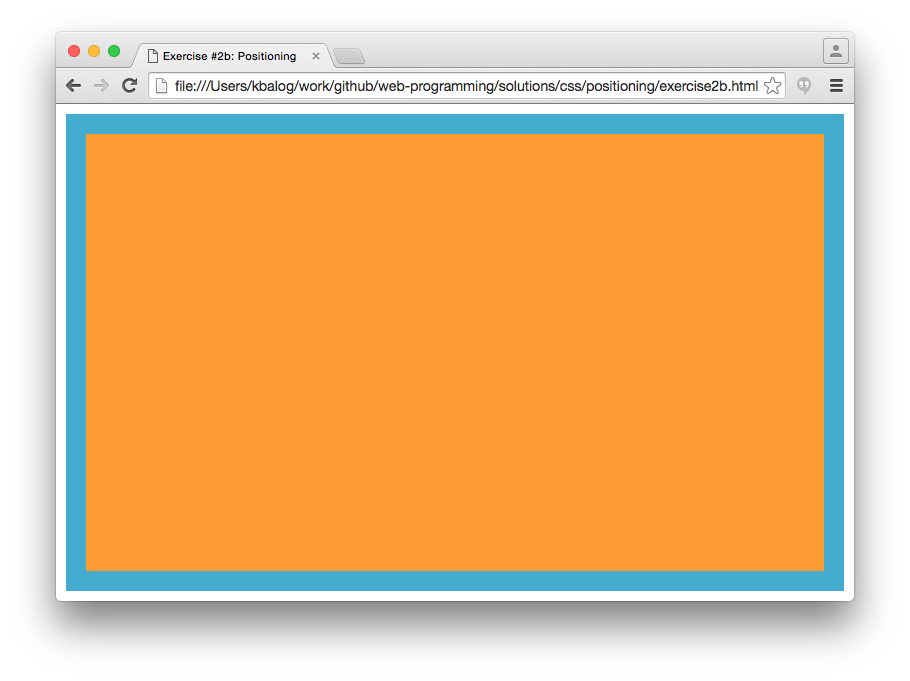
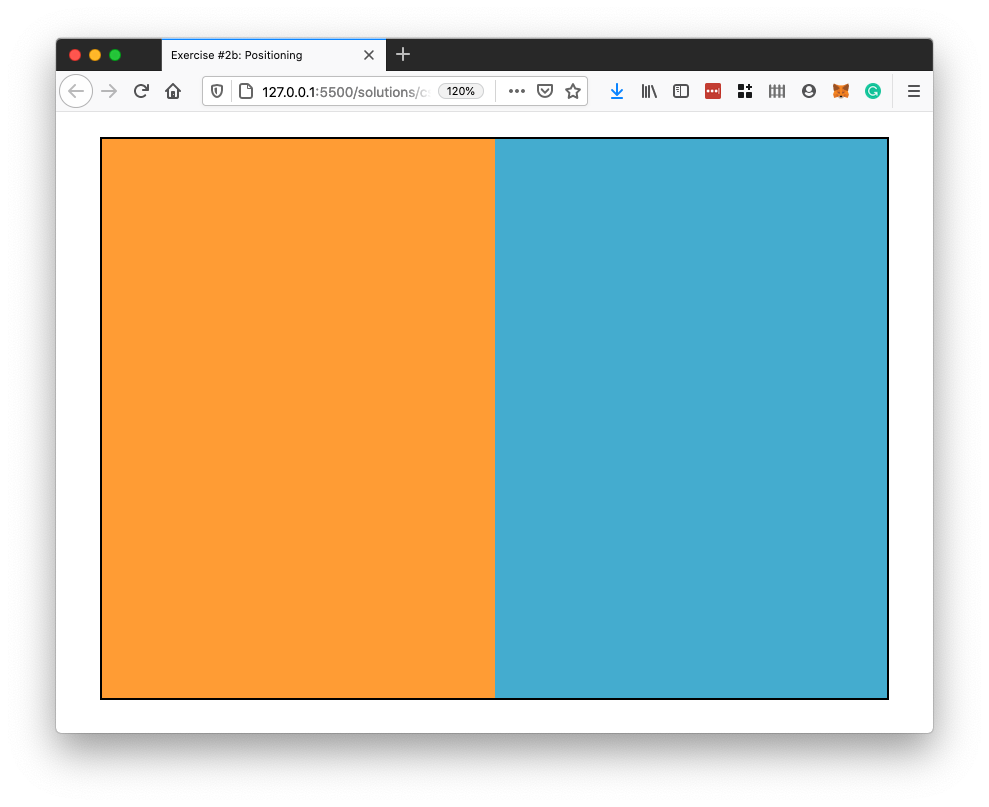
change absolute positioning.

diff --git a/solutions/css/positioning/exercise2b.html b/solutions/css/positioning/exercise2b.html
@@ -3,28 +3,45 @@
 <head>
     <title>Exercise #2b: Positioning</title>
     <style>
-        #outer {
+        /* This rule below ensures the body covers the complete displayed area */
+        * {
+            margin: 0;
+        }
+        html {
+            height: 100%;
+        }
+        body {
+            height: 90%;
+            padding: 5%;
+        }
+        #container {
+            height: 100%;
+            border: 2px solid black;
+            position: relative;
+        }
+        #left {
             background: #44accf;
             position: absolute;
-            top: 10px;
-            right: 10px;
-            bottom: 10px;
-            left: 10px;
+            top: 0;
+            right: 0;
+            bottom: 0;
+            width: 50%;
         }
 
-        #inner {
+        #right {
             background: #ff9c34;
             position: absolute;
-            top: 20px;
-            right: 20px;
-            bottom: 20px;
-            left: 20px;
+            top: 0;
+            left: 0;
+            bottom: 0;
+            width: 50%;
         }
     </style>
 </head>
 <body>
-<div id="outer">
-    <div id="inner"></div>
-</div>
+    <div id="container">
+        <div id="left"></div>
+        <div id="right"></div>
+    </div>
 </body>
 </html>

diff --git a/exercises/css/positioning/exercise2b.html b/exercises/css/positioning/exercise2b.html
@@ -3,20 +3,39 @@
 <head>
     <title>Exercise #2b: Positioning</title>
     <style>
-        #outer {
+        /* This rule below ensures the body covers the complete displayed area */
+        * {
+            margin: 0;
+        }
+        html {
+            height: 100%;
+        }
+        body {
+            height: 90%;
+            padding: 5%;
+        }
+        #container {
+            height: 100%;
+            border: 2px solid black;
+            /* add css here */
+        }
+        #left {
             background: #44accf;
-            /* add CSS here */
+            width: 50%;
+            /* add css here */
         }
 
-        #inner {
+        #right {
             background: #ff9c34;
-            /* and here */
+            width: 50%;
+            /* add css here */
         }
     </style>
 </head>
 <body>
-<div id="outer">
-    <div id="inner"></div>
-</div>
+    <div id="container">
+        <div id="left"></div>
+        <div id="right"></div>
+    </div>
 </body>
 </html>

diff --git a/exercises/css/positioning/README.md b/exercises/css/positioning/README.md
@@ -31,7 +31,8 @@ Move the even boxes 10px up and the odd boxes 10px down with respect to their or
 
 **#2b)** [Starter file](exercise2b.html)
 
-Create a border offset of 10px by the document. Make it entirely fluid (i.e., fill the browser window) as the document resizes (using absolute positioning).
+Use absolute positioning to place the `left` and `right` elements to the left and right side of the container.
+
 
 ![Exercise2b](images/exercise2b.png)
 
